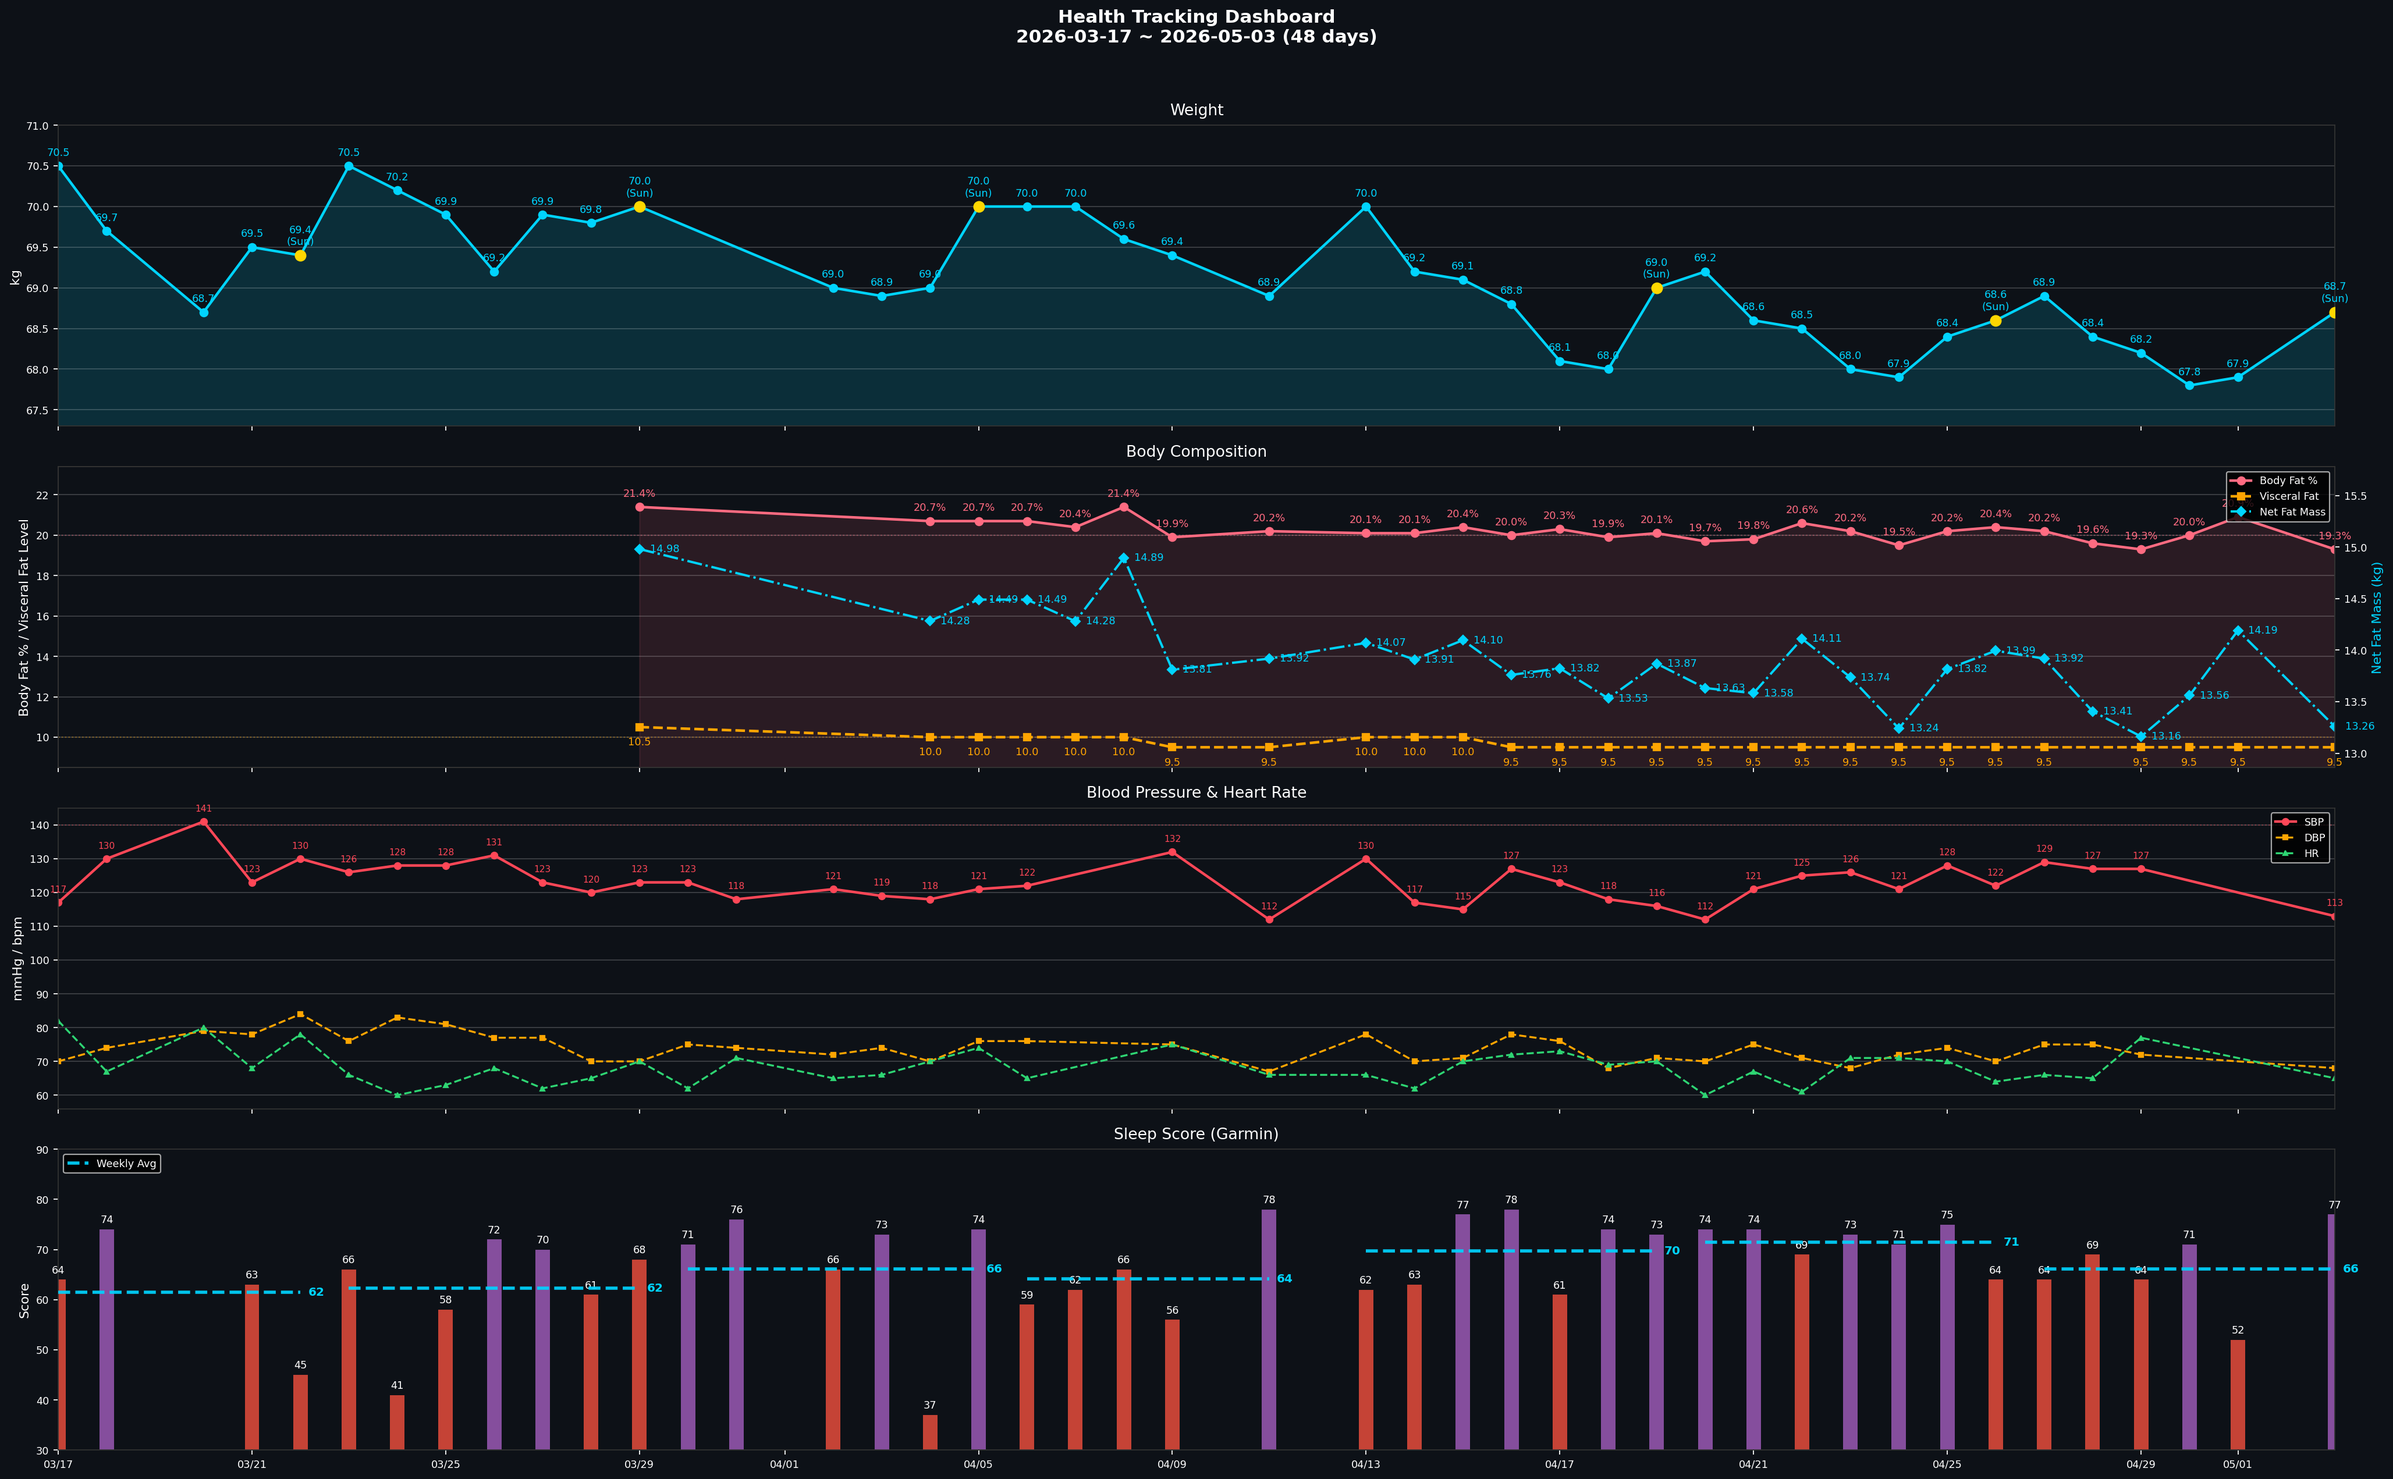
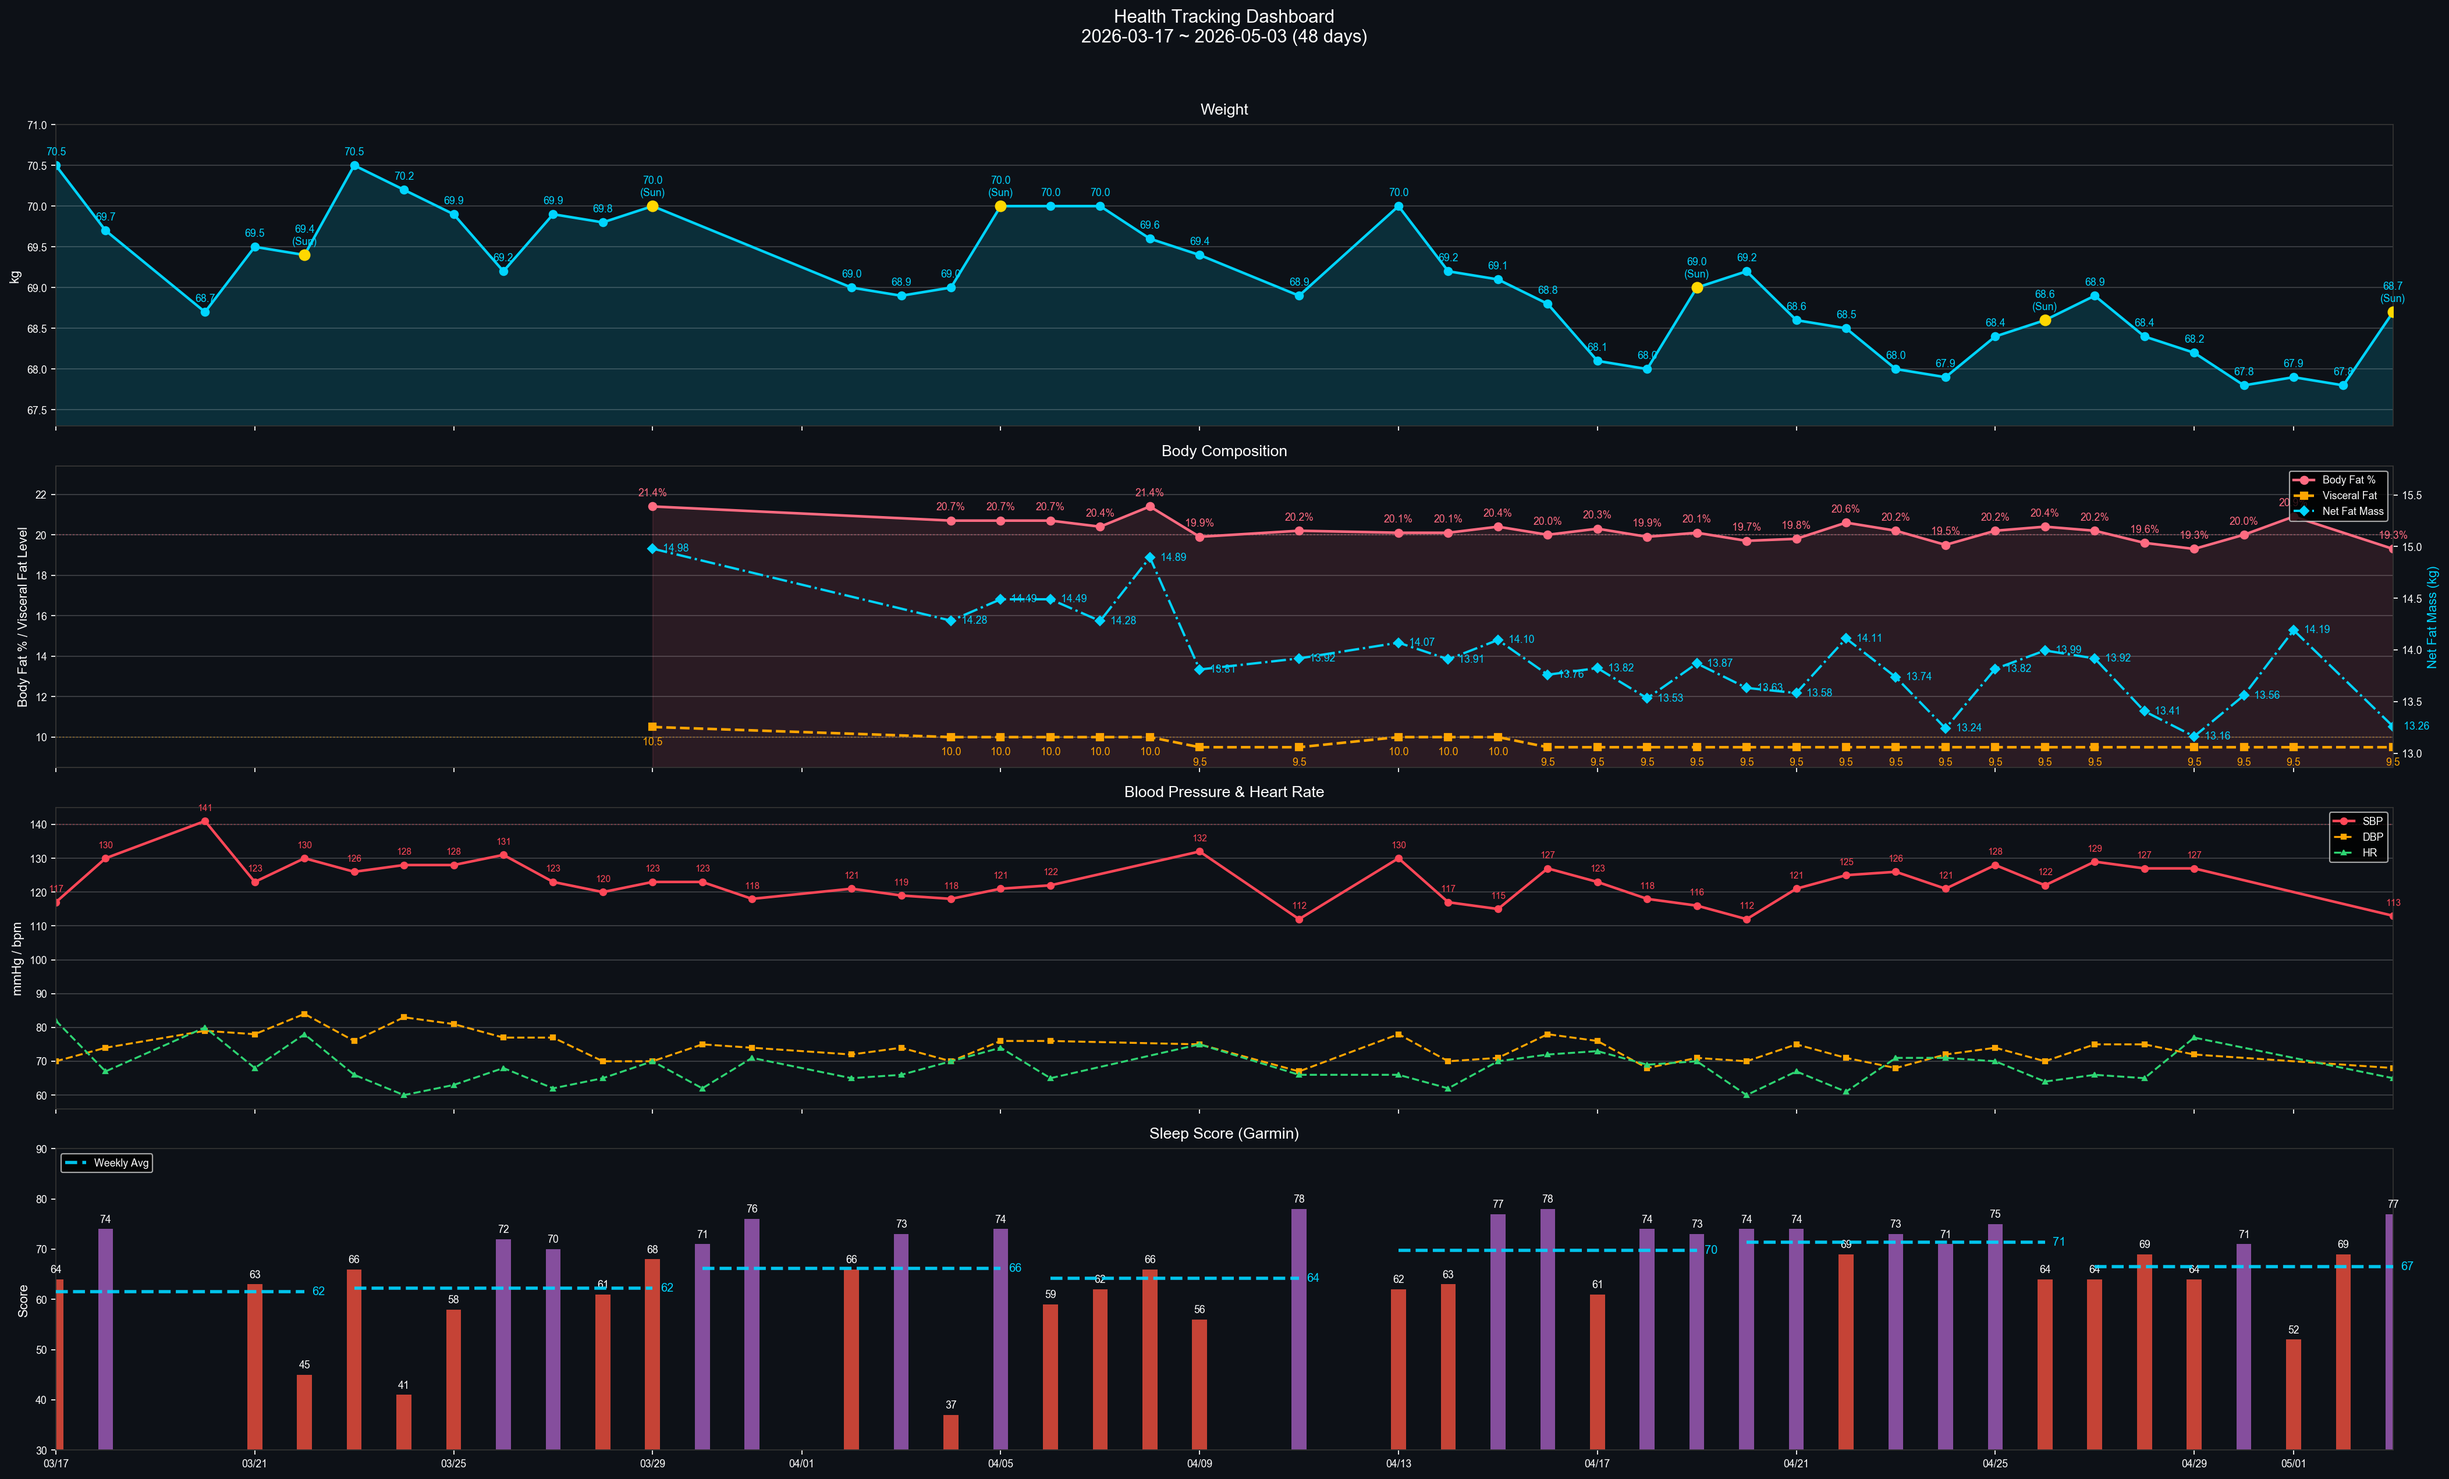
backlog 2026-05-02 (Garmin autolog + weight 67.8 kg)

diff --git a/reviews/daily/2026-05-02.md b/reviews/daily/2026-05-02.md
@@ -1,0 +1,86 @@
+# 晨間健康紀錄 — 2026-05-02
+
+*補記（autolog from Garmin）。*
+
+---
+
+## 體重
+
+**今日：67.8 kg**
+**體脂率：N/A**
+**內臟脂肪等級：N/A**
+
+*週六正式紀錄日 — 連續 5 個工作日後、週末大餐尚未開始前的真實低點。*
+
+---
+
+## 血壓（晨間）
+
+| 次數 | 收縮壓 | 舒張壓 | 心率 |
+|------|--------|--------|------|
+| 第一次 | N/A | N/A | N/A |
+| 第二次 | N/A | N/A | N/A |
+
+*補記日未量測。*
+
+---
+
+## 睡眠狀態（Garmin 自動）
+
+**實際就寢：** 23:06
+**實際起床：** 05:11
+**總時長：** 5h 41m（深眠 69 分 / REM 64 分）
+**中途醒來：** N/A
+**Garmin Sleep Score：** 69 / 100
+**Garmin Body Battery 起床值：** 41
+**主觀恢復感：** N/A
+
+*Sleep Score < 65 或 Body Battery < 50 連續三天 → 重新檢視睡眠修復方案。*
+
+### SpO2 Desat Events（5/1 → 5/2 夜）
+
+睡眠平均 98.0% / 瞬間最低 84% / SpO2 < 90% 累計 36 分 / **T90 ≈ 9.9%**
+
+| 時段 | 長度 | 最低 | 平均 | 分級 |
+|------|------|------|------|------|
+| 00:31–00:37 | 7 分 | 86% | 87% | 🟡 紅旗 |
+| 00:55–00:56 | 2 分 | 89% | 89% | 🟢 邊緣 |
+| 00:58–01:01 | 4 分 | 89% | 89% | 🟢 邊緣 |
+| 01:03–01:09 | 7 分 | 89% | 89% | 🟢 邊緣 |
+| 01:11–01:15 | 5 分 | 88% | 89% | 🟢 邊緣 |
+| **01:31–01:35** | **5 分** | **84%** | **86%** | **🟠 中度** |
+| 03:55–03:59 | 5 分 | 86% | 88% | 🟡 紅旗 |
+| 04:01–04:01 | 1 分 | 89% | 89% | 🟢 邊緣 |
+
+⚠ **OSA 紅旗持續**：T90 9.9%（接近 10% 重度閾值），單晚 8 段事件，最深 84%。
+
+---
+
+## 昨日回顧
+
+**實際飲水量：** N/A L
+
+---
+
+## 身體信號
+
+| 部位 | 性質 | 強度 (0-10) |
+|------|------|-------------|
+| N/A | — | — |
+
+---
+
+## 今日計畫速記
+
+- [ ] 飲水目標：N/A
+- [ ] 補充品：N/A
+- [ ] 運動：N/A
+- [ ] 活動度/伸展：N/A
+
+---
+
+*Filed: reviews/daily/2026-05-02.md（補記，僅 Garmin 自動數據 + 體重）*
+
+---
+
+💡 **PT 建議（補記）：** 5/2 為週六，總睡眠僅 5h 41m + Body Battery 41（< 50）— 連續恢復不足訊號。SpO2 desat events 8 段 / T90 9.9%，OSA 紅旗持續。體重 67.8 kg vs 第 2 月目標 68.3 kg → 提前達標 0.5 kg，內臟脂肪持續 9.5 ✓。

diff --git a/reviews/weekly/2026-W18.md b/reviews/weekly/2026-W18.md
@@ -31,13 +31,13 @@
 
 |  | 一 | 二 | 三 | 四 | 五 | 六 | 日 |
 |--|----|----|----|----|----|----|-----|
-| 體重 (kg) | 68.9 | 68.4 | 68.2 | 67.8 | 67.9 | | 68.7 |
-| 體脂率 (%) | 20.2 | 19.6 | 19.3 | 20.0 | 20.9 | | 19.3 |
-| 內臟脂肪 | 9.5 | 9.5 | 9.5 | 9.5 | 9.5 | | 9.5 |
+| 體重 (kg) | 68.9 | 68.4 | 68.2 | 67.8 | 67.9 | 67.8 | 68.7 |
+| 體脂率 (%) | 20.2 | 19.6 | 19.3 | 20.0 | 20.9 | N/A | 19.3 |
+| 內臟脂肪 | 9.5 | 9.5 | 9.5 | 9.5 | 9.5 | N/A | 9.5 |
 
-**本週正式讀數（週六早晨）：** 待 2026-05-02
+**本週正式讀數（週六早晨）：** 67.8 kg｜體脂率：N/A｜內臟脂肪：N/A
 **上週正式讀數（週六早晨）：** 68.4 kg｜體脂率：20.2%｜內臟脂肪：9.5
-**體重變化：** 待週六
+**體重變化：** −0.6 kg（68.4 → 67.8）✓ 提前達第 2 月目標 68.3 kg
 
 ---
 
@@ -50,7 +50,7 @@
 | 2026-04-29 (三) | 127 | 72 | 77 |
 | 2026-04-30 (四) | — | — | — |
 | 2026-05-01 (五) | — | — | — |
-| 2026-05-02 (六) | | | |
+| 2026-05-02 (六) | N/A | N/A | N/A |
 | 2026-05-03 (日) | 113 | 68 | 65 |
 
 **本週平均：** 待週末 mmHg
@@ -68,7 +68,7 @@
 | 2026-04-29 (三) | 21:38 | 06:00 | 3 次（N/A） | 64 | 58 | 3 |
 | 2026-04-30 (四) | 22:04 | 04:26 | 1 次（N/A） | 71 | 51 | 3 |
 | 2026-05-01 (五) | 22:45 | 03:25 | 待補 | 52 | 47 | 2 |
-| 2026-05-02 (六) | | | | | | |
+| 2026-05-02 (六) | 23:06 | 05:11 | N/A | 69 | 41 | N/A |
 | 2026-05-03 (日) | 21:40 | 05:08 | 無 | 77 | 54 | 3 |
 
 **Sleep Score 週均：** 待週末
@@ -160,8 +160,9 @@
 | **04-29** | **16.0** ⚠ | **80** | **18 分** | **79%** 🔴 | **11** |
 | 04-30 | 12.6 ⚠ | 48 | **20 分** | 82% | 8 |
 | 05-01 | 9.3 | 26 | 8 分 | **79%** 🔴 | 7 |
+| 05-02 | 9.9 | 36 | 7 分 | 84% | 8 |
 | **05-03** | **7.6** | **34** | **27 分** ⚠ | 85% | 5 |
-| **週均** | **9.9** | 41.6 | 14.7 分 | 82.3% | 7.7 |
+| **週均** | **9.9** | 41.0 | 13.6 分 | 82.6% | 7.6 |
 
 **觀察：**
 - T90 週均 10.5% → **跨入🔴重度區間**（> 10%）
